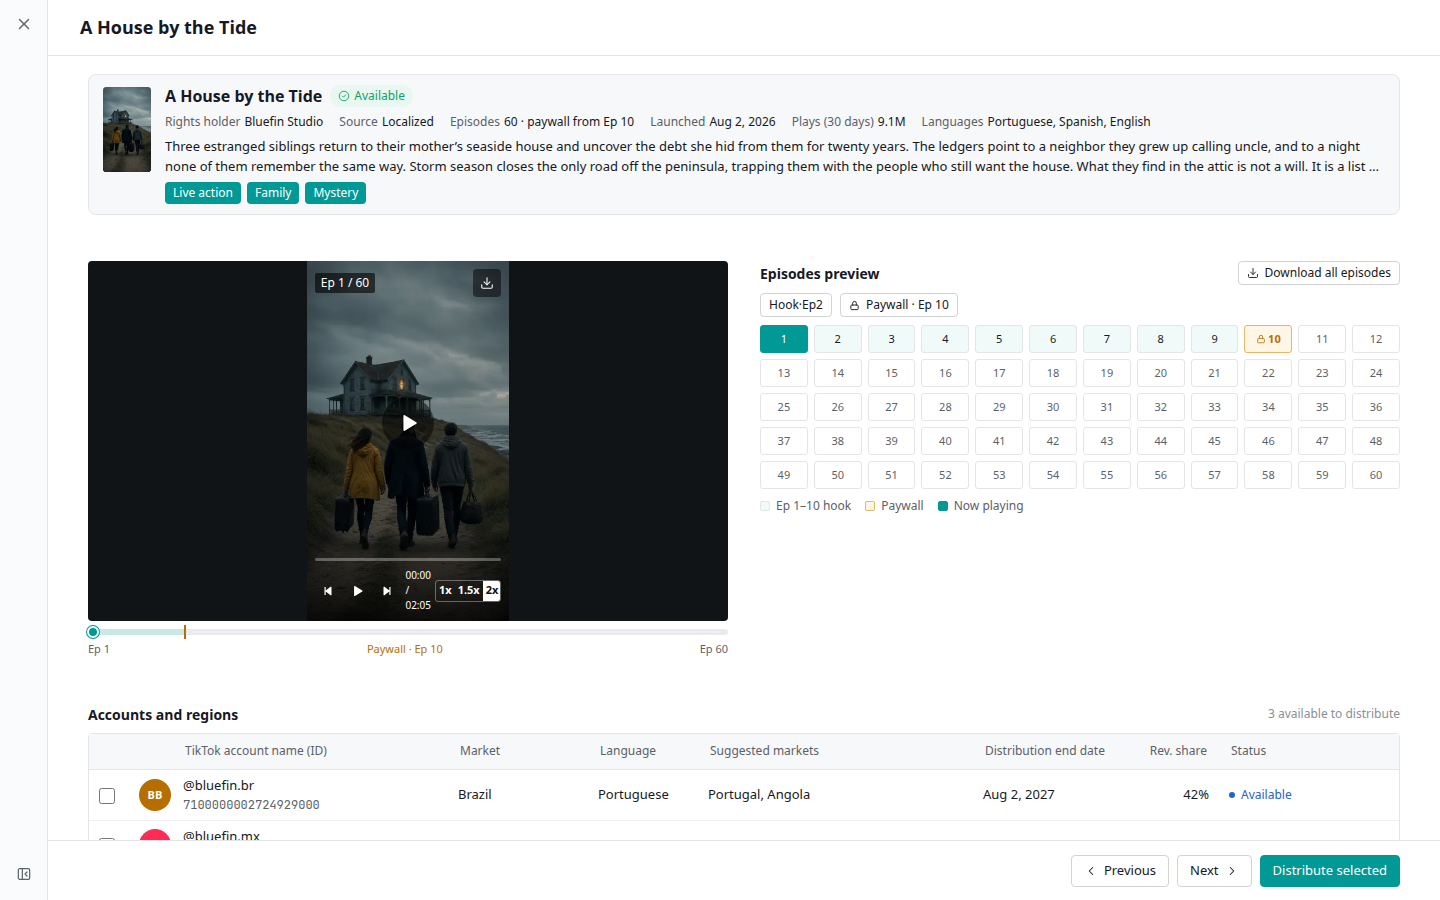
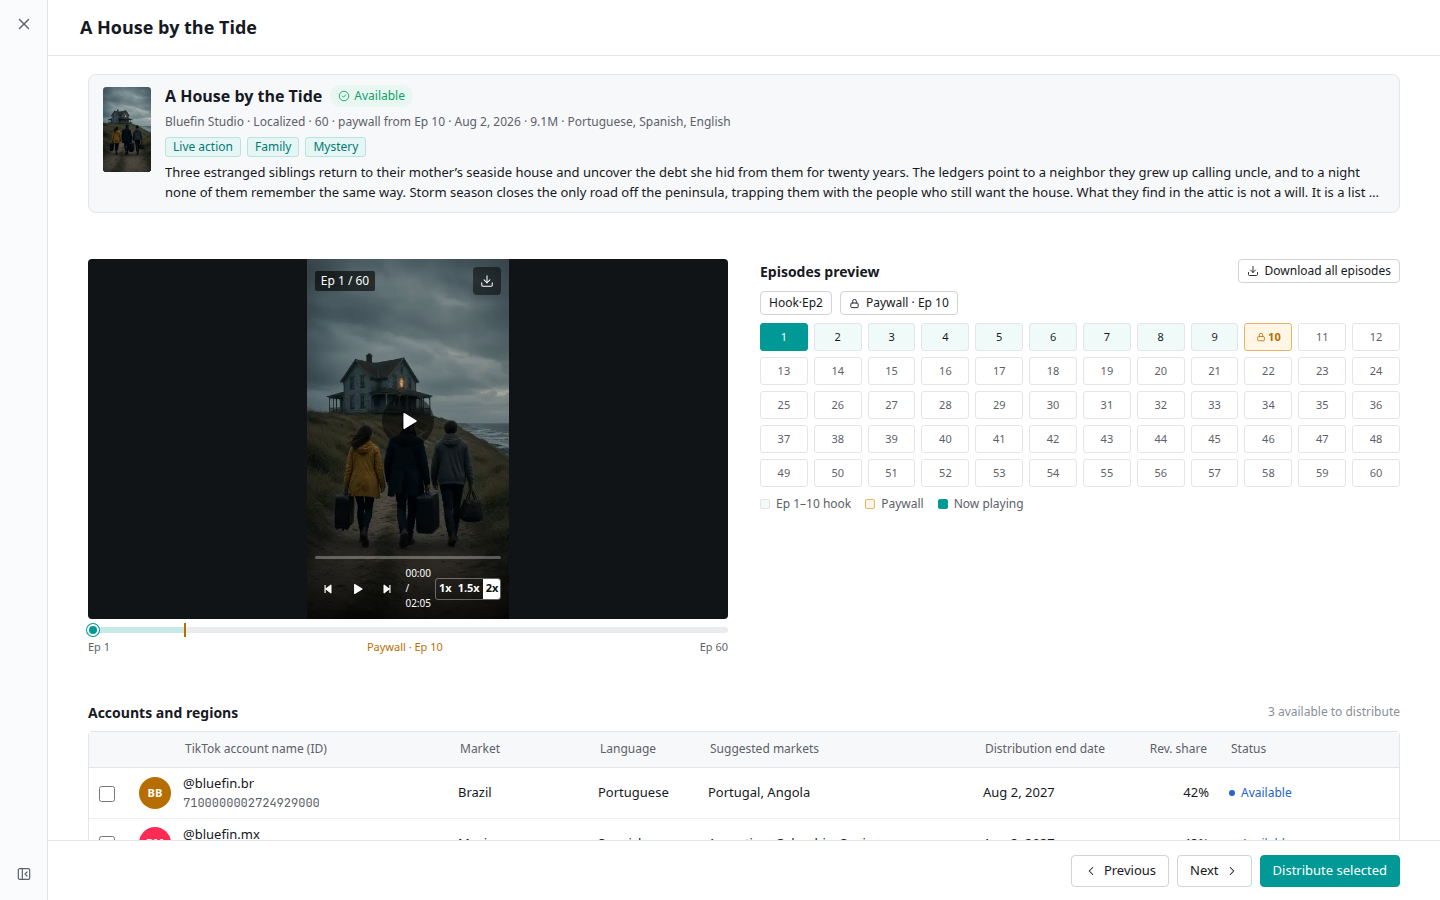
Sync prototype: values-only header meta and outlined tags
Fullscreen drama card meta is values separated by middle dots. Format and genre tags are light outlined chips above the synopsis.

diff --git a/index.html b/index.html
@@ -369,17 +369,16 @@ button.kpi.on{box-shadow:inset 0 -2px 0 var(--primary)}
 .det-syn{margin:0;font-size:13px;line-height:1.65;color:var(--text)}
 .drawer.drama.fs .det{grid-template-columns:minmax(0,1fr) minmax(0,1fr);grid-template-areas:"info info" "player eps" "cols cols";gap:22px 32px}
 .drawer.drama.fs .det-l,.drawer.drama.fs .det-eps{margin-top:24px;margin-bottom:24px}
-.drawer.drama.fs .det-info{display:grid;grid-template-columns:48px minmax(0,1fr);grid-template-areas:"cover head" "cover facts" "cover syn" "cover tags";column-gap:14px;row-gap:6px;align-items:start;padding:10px 14px;border:1px solid var(--border);border-radius:8px;background:var(--th)}
+.drawer.drama.fs .det-info{display:grid;grid-template-columns:48px minmax(0,1fr);grid-template-areas:"cover head" "cover facts" "cover tags" "cover syn";column-gap:14px;row-gap:6px;align-items:start;padding:10px 14px;border:1px solid var(--border);border-radius:8px;background:var(--th)}
 .det-facts{display:contents}
 .drawer.drama.fs .det-facts{display:block;grid-area:facts;border:0;padding:0;background:transparent}
 .drawer.drama.fs .det-facts .kv{display:none}
-.drawer.drama.fs .det-facts-line{display:flex;flex-wrap:wrap;align-items:baseline;gap:2px 16px;font-size:12px;line-height:18px;color:var(--text)}
-.drawer.drama.fs .det-facts-line .k{color:var(--text2);font-weight:500;margin-right:4px}
+.drawer.drama.fs .det-facts-line{display:block;font-size:12px;line-height:18px;color:var(--text2)}
 .det-facts-line{display:none}
 .drawer.drama.fs .det-syn{grid-area:syn;font-size:13px;line-height:1.5;max-width:none;border:0;padding:0;background:transparent;display:-webkit-box;-webkit-box-orient:vertical;-webkit-line-clamp:2;overflow:hidden}
 .det-hero-tags{display:none}
 .drawer.drama.fs .det-hero-tags{grid-area:tags;display:flex;flex-wrap:wrap;gap:6px}
-.drawer.drama.fs .det-hero-tags .tag{background:var(--primary);color:#fff;height:22px;padding:0 8px;border-radius:4px}
+.drawer.drama.fs .det-hero-tags .tag{background:var(--primary-bg);color:var(--primary-t);border:1px solid #B7E3E1;height:20px;padding:0 7px;border-radius:3px;font-weight:500}
 .drawer.drama.fs .det-l{position:static;width:auto}
 .player-stage{display:contents}
 .drawer.drama.fs .player-stage{display:flex;align-items:center;justify-content:center;width:100%;aspect-ratio:16/9;height:auto;background:#111417;border-radius:4px;overflow:hidden}
@@ -1378,8 +1377,7 @@ function dramaBody(ctrId){
     ? `<span class="det-hero-chip">${ic('check-circle', 12)}Available</span>`
     : `<span class="det-hero-chip claimed">${ic('check-circle', 12)}Claimed</span>`;
   const langs = Array.from(new Set(cs.map(x => x.lang))).join(', ');
-  const factsLine = [['Rights holder', c.holder],['Source', c.source],['Episodes', N + ' · paywall from Ep ' + pw],['Launched', c.launchL],['Plays (30 days)', c.plays],['Languages', langs]]
-    .map(([k, v]) => `<span class="det-fact"><span class="k">${esc(k)}</span>${esc(v)}</span>`).join('');
+  const factsLine = [c.holder, c.source, N + ' · paywall from Ep ' + pw, c.launchL, c.plays, langs].map(esc).join(' · ');
   const heroTags = [c.format].concat(c.genres).map(t => `<span class="tag">${esc(t)}</span>`).join('');
   const body = `
   <div class="det">
